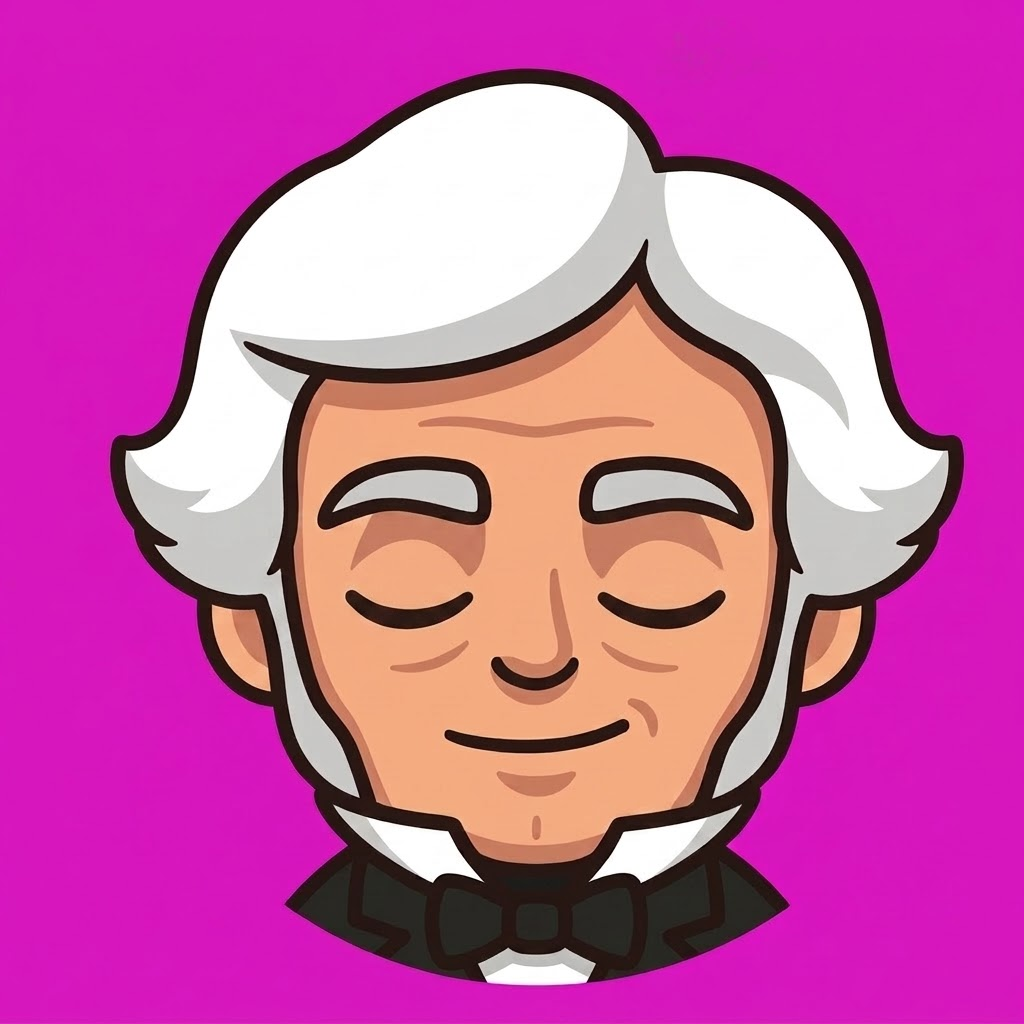
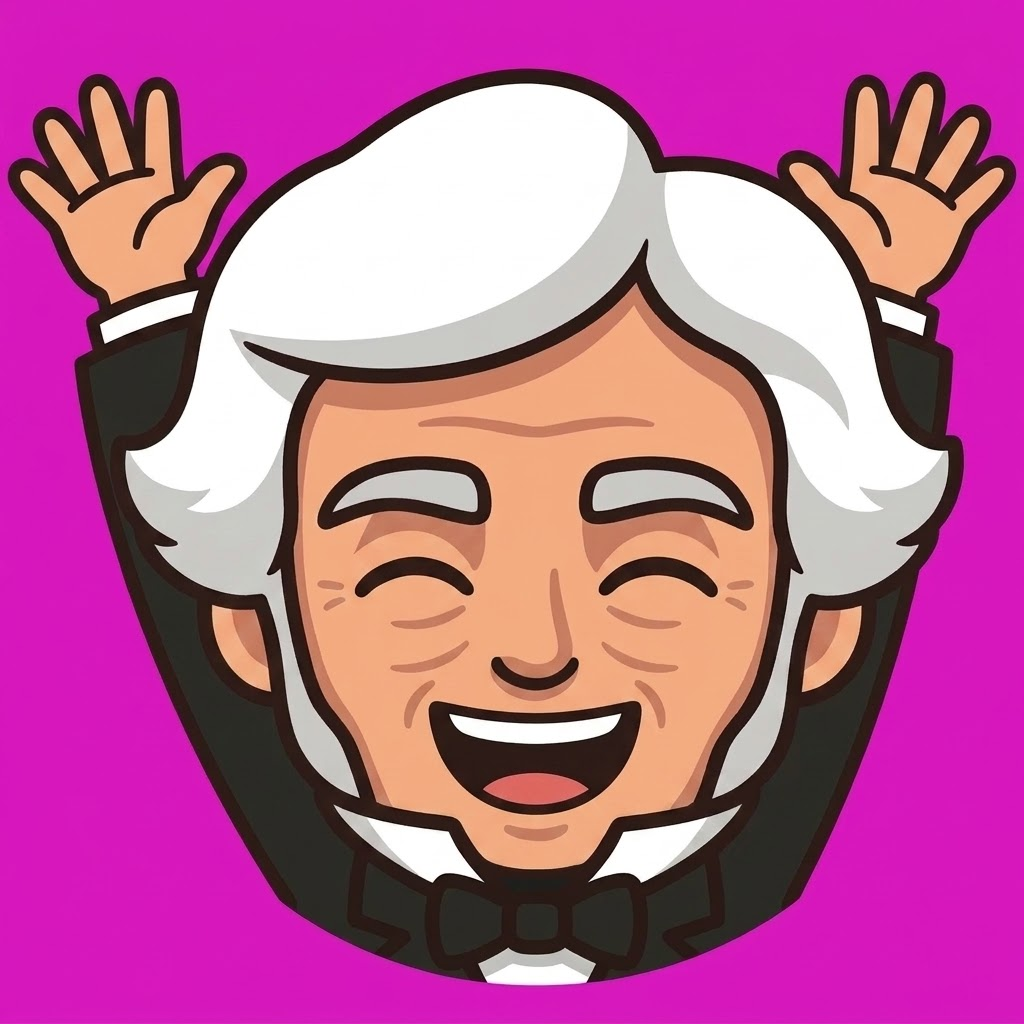
feat(mascot): all six pose PNGs regenerated at the rig's resolution
He is one vintage again. The chat avatar, the tour and the practice screen were
showing a 197px Faraday and a 1024px one side by side; every pose now descends
from the same faraday-hires.png the rig is cut from.

The rewritten happy prompt worked: leading with the arms, stating the open mouth
twice, and describing the eyes as an action rather than a state got the pose the
first attempt dropped. 33.5% from blink now, against 0.9% before. All six pass
the distinctness check, and they stay legible at 44px — the hand at the chin,
the raised arms and the open palm all survive the chat avatar.

Deletes slice-mascot.mjs. It wrote the same public/faraday-*.png files from the
old 197px sheet, so leaving it in place meant anyone running it silently reverted
the whole set. The sheet itself stays: it seeds faraday-hires.png, which
everything now descends from.

Sparks stay out of the art. SparkBurst draws them at runtime already, so baking
them in would duplicate the effect and freeze their colour against the design
tokens — happy and streak are distinguishable without them at 40.8%.

diff --git a/assets-src/README.md b/assets-src/README.md
@@ -8,13 +8,19 @@ their (much smaller) output into `public/`.
 
 | File | Feeds | Rebuild with |
 |---|---|---|
-| `faraday-sheet.png` | the six pose PNGs | `node scripts/slice-mascot.mjs` |
+| `faraday-sheet.png` | the seed for `faraday-hires.png` | `node scripts/make-turntable-seed.mjs` |
 | `faraday-hires.png` | `faraday-rig.psd` + `public/faraday-rig/` | `node scripts/cut-rig-layers.mjs` |
 | `faraday-icon.png` | favicon + apple-touch icon | `node scripts/make-favicon.mjs` |
 
 `faraday-icon.png` is a *different drawing* — shaded hair, wrinkles, a white
-collar. Only the favicon uses it. `faraday-sheet.png` is the canonical model;
-generate against that one.
+collar. Only the favicon uses it.
+
+`faraday-sheet.png` is no longer cut from directly. It was the source of the six
+pose PNGs via `slice-mascot.mjs`, now deleted: it wrote the same
+`public/faraday-*.png` files that `slice-poses.mjs` writes, so running it would
+have silently reverted the whole set to 197px cells. The sheet survives as the
+ancestor — it seeds `faraday-hires.png`, which everything else now descends
+from.
 
 Both arrived as JPEG data with a `.png` name — check the signature before
 assuming otherwise (`ff d8` is JPEG, `89 50 4e 47` is PNG). Convert with
